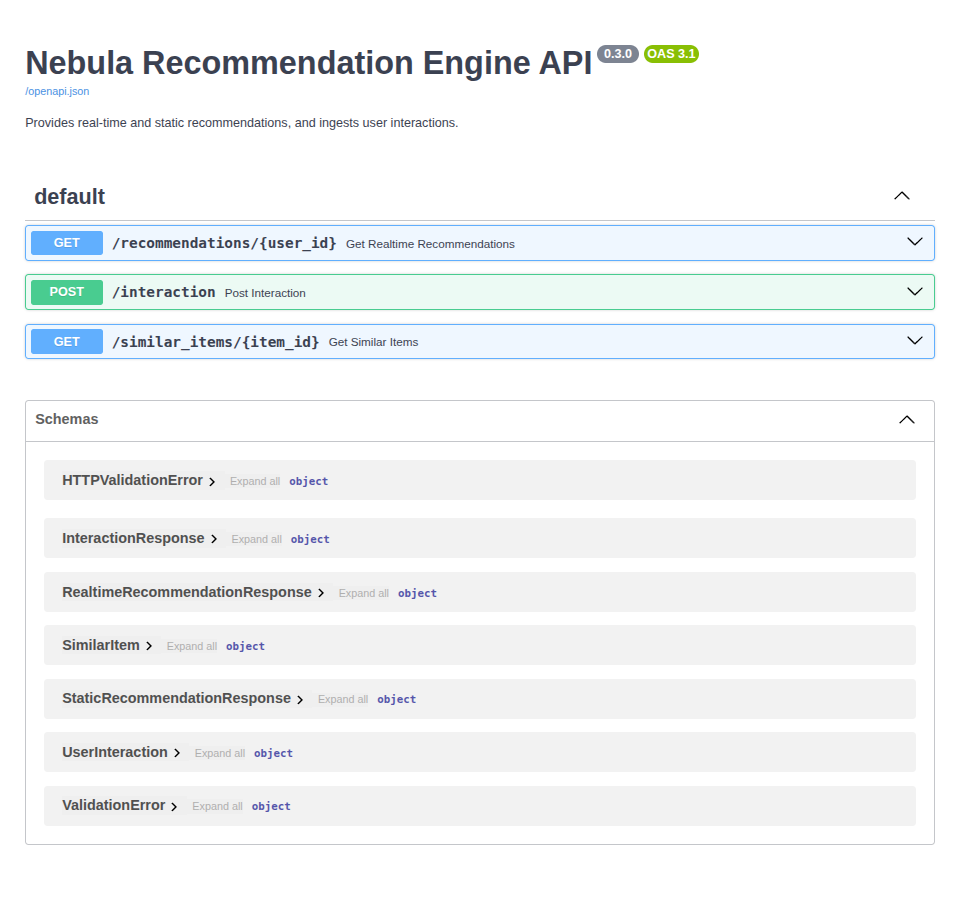
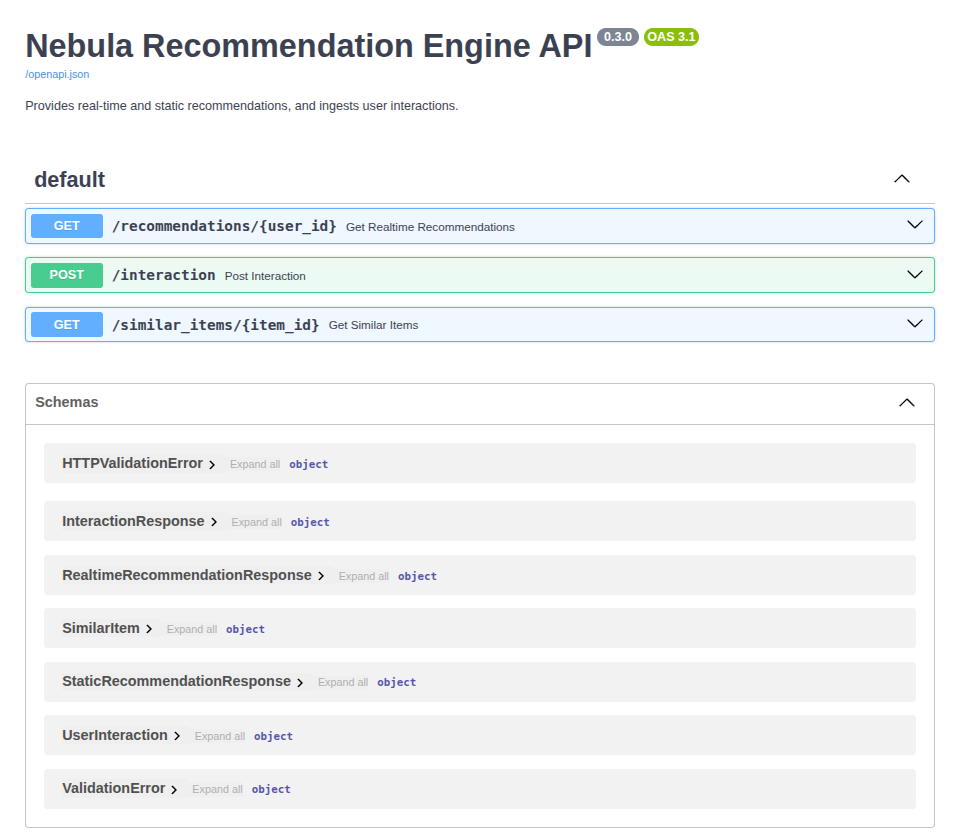
docs: Resize screenshots in README for better layout
This commit adjusts the display size of the screenshots in the `README.md` file to improve the overall layout and readability.

- Replaced the standard Markdown image syntax with HTML `<img>` tags.
- Set a fixed width for all screenshots, which scales their height proportionally without cropping.
- This results in a more compact and visually appealing presentation of the project's components.

diff --git a/README.md b/README.md
@@ -63,25 +63,26 @@ The system is composed of two pipelines: an **Offline Pipeline** for initial dat
 #### Redpanda Console Web UI
 
 The console shows the `user_interactions` topic successfully receiving events from the API.
-
-![Redpanda Console](docs/screenshots/redpanda_console.png)
+<br/>
+<img src="docs/screenshots/redpanda_console.png" alt="Redpanda Console" width="800"/>
 
 ---
 
 #### FastAPI Interactive Documentation
 
 The auto-generated Swagger UI for the API, showing all available endpoints for ingestion and serving.
-
-![FastAPI Docs](docs/screenshots/fastapi_docs.png)
+<br/>
+<img src="docs/screenshots/fastapi_docs.png" alt="FastAPI Docs" width="800"/>
 
 ---
 
 #### Streamlit Interactive Dashboard
 
 The final user interface, demonstrating both the real-time recommendation updates and the static, content-based similarity search.
-
-![Streamlit UI - Real-time](docs/screenshots/streamlit_ui_1.png)
-![Streamlit UI - Static](docs/screenshots/streamlit_ui_2.png)
+<br/>
+<img src="docs/screenshots/streamlit_ui_1.png" alt="Streamlit UI - Real-time" width="800"/>
+<br/>
+<img src="docs/screenshots/streamlit_ui_2.png" alt="Streamlit UI - Static" width="800"/>
 
 ## ⚙ Technology Stack
 
